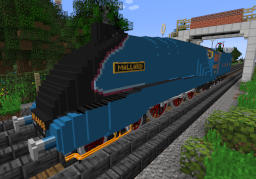
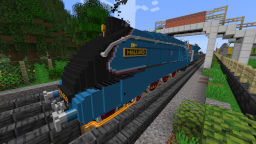
docs: Update A4 screenshots and add a few more
Update A4 screenshots to show latest model, and add a few more, one
showing the tender, one showing the cab / firebox, and another showing
the tender from the cab.

diff --git a/docs/a4.md b/docs/a4.md
@@ -1,7 +1,10 @@
 LNER Class A4
 =============
 
-![Screenshot](./a4.jpg)
+![Screenshot 1](./a4.jpg)
+![Screenshot 2](./a4_rear.jpg)
+![Screenshot cab 1](./a4_cab.jpg)
+![Screenshot cab 2](./a4_coal.jpg)
 
 To-do list
 ----------
